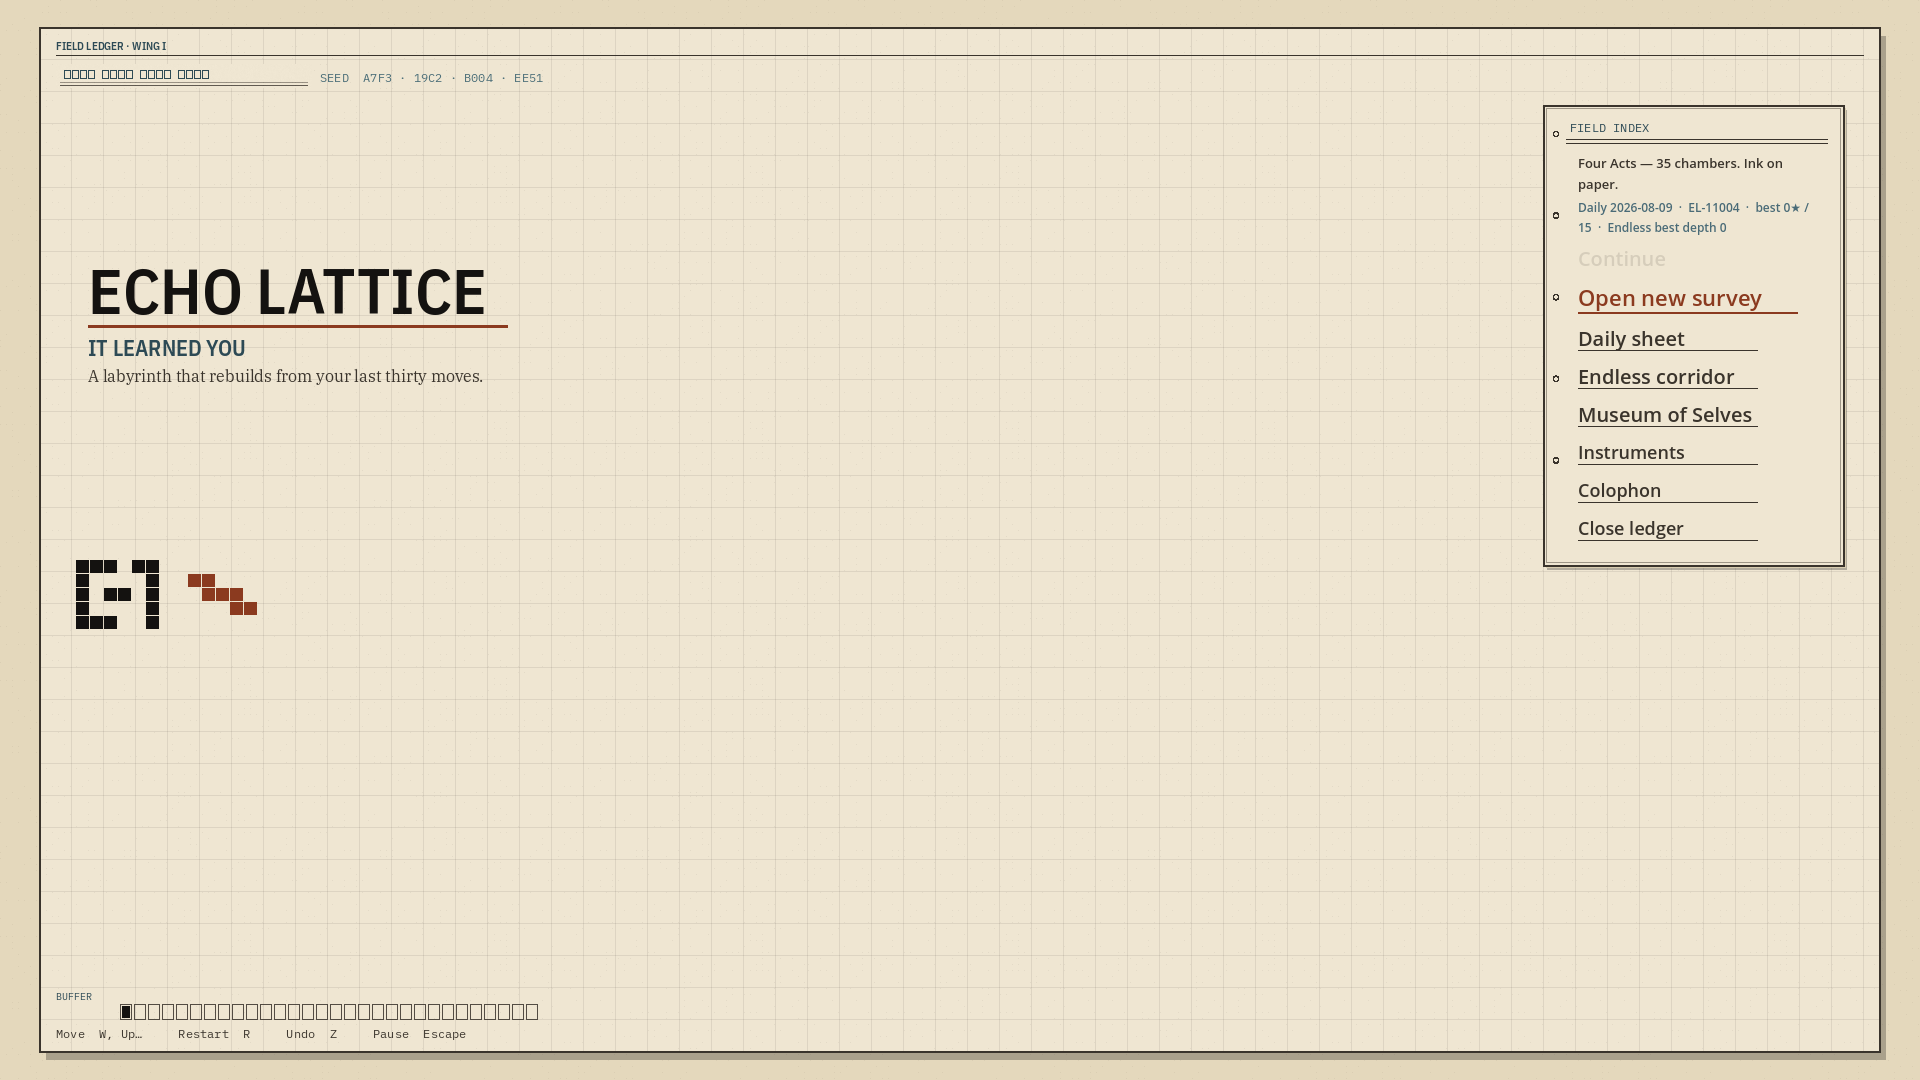
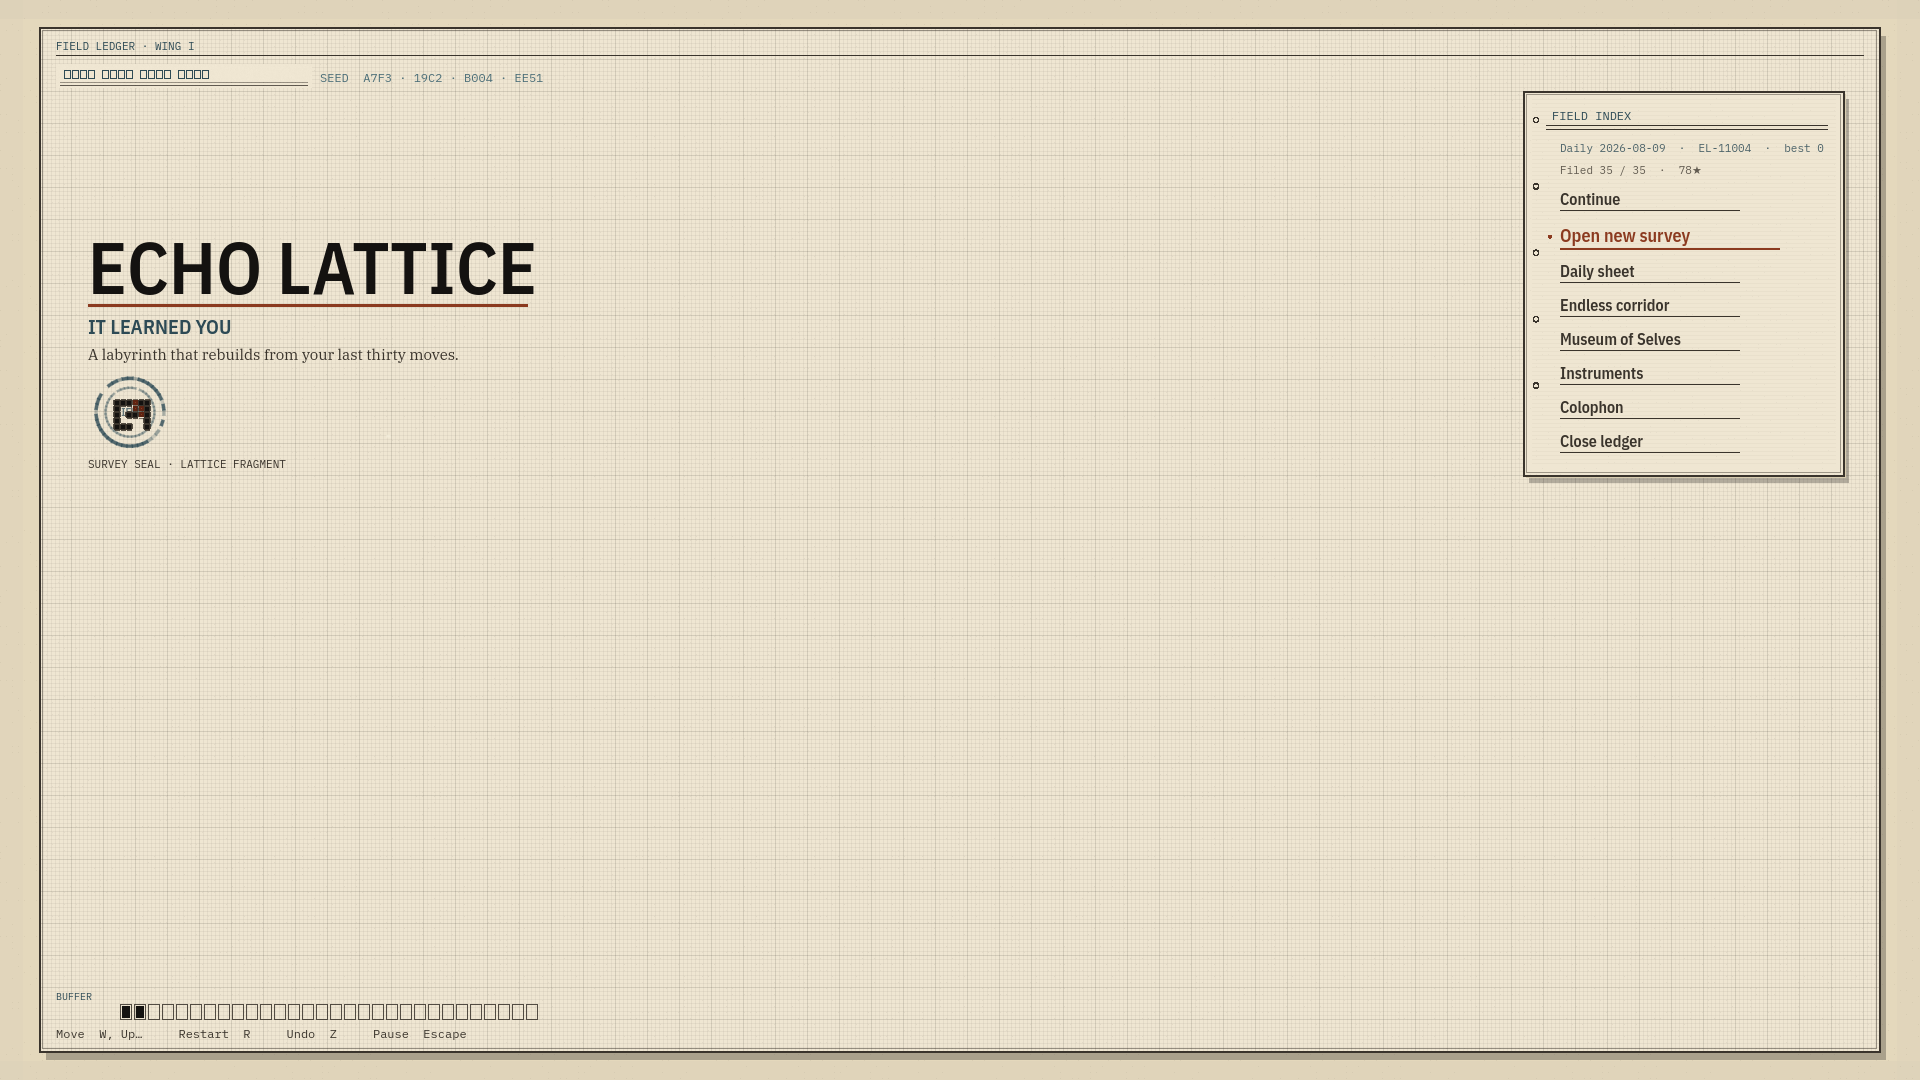
fix(menu): Deck-safe Field Index via font oversampling pin
LedgerType was loading Plex faces with oversampling=0, which made
get_height ~3× font_size and pushed Colophon/Quit outside the plate
at 960×560. Pin oversampling to 1.0, tighten compact type/scale, quiet
meta copy, and recapture the brand menu slate.

diff --git a/game/echo_lattice/tests/test_field_ledger_juice.py b/game/echo_lattice/tests/test_field_ledger_juice.py
@@ -367,23 +367,40 @@ class TestDiegeticShellMvp(unittest.TestCase):
                 left = x
                 break
         self.assertIsNotNone(left)
-        ys = [
+        # Ink hairline on the plate — strict threshold so ledger fiber/grid
+        # (lum ~190–210) does not inflate the card height.
+        edge = [
             y
-            for y in range(80, 900)
-            if any(lum(left + dx, y) < 200 for dx in range(0, 3))
+            for y in range(80, 1000)
+            if any(lum(left + dx, y) < 130 for dx in range(0, 3))
         ]
-        self.assertGreater(ys[-1] - ys[0], 350)
+        self.assertGreater(len(edge), 200, msg="Field Index left rule missing")
+        # Longest contiguous ink run = physical card edge.
+        runs: list[tuple[int, int]] = []
+        run_a: int | None = None
+        for y in range(80, 1000):
+            dark = any(lum(left + dx, y) < 130 for dx in range(0, 3))
+            if dark and run_a is None:
+                run_a = y
+            elif not dark and run_a is not None:
+                runs.append((run_a, y - 1))
+                run_a = None
+        if run_a is not None:
+            runs.append((run_a, 999))
+        self.assertTrue(runs, msg="Field Index card edge run missing")
+        top, bottom = max(runs, key=lambda r: r[1] - r[0])
+        self.assertGreater(bottom - top, 300, msg="Field Index plate too short")
         text_bottom = max(
             y
-            for y in range(ys[0], ys[-1] + 40, 2)
-            if sum(1 for x in range(left + 40, left + 240, 2) if lum(x, y) < 200) > 10
+            for y in range(top, bottom + 20, 2)
+            if sum(1 for x in range(left + 40, left + 240, 2) if lum(x, y) < 150) > 10
         )
-        self.assertLessEqual(text_bottom, ys[-1] + 8)
+        self.assertLessEqual(text_bottom, bottom + 8)
         orphan = sum(
             1
-            for y in range(ys[-1] + 40, 1000, 2)
+            for y in range(bottom + 24, 1000, 2)
             for x in range(left + 40, left + 240, 2)
-            if lum(x, y) < 180
+            if lum(x, y) < 140
         )
         self.assertLess(orphan, 40, msg="menu rows orphaned below Field Index card")
 

diff --git a/game/echo_lattice/tests/test_fonts_materials.py b/game/echo_lattice/tests/test_fonts_materials.py
@@ -43,6 +43,15 @@ class TestFontsMaterials(unittest.TestCase):
         locale_i = proj.index("LocaleManager=")
         self.assertLess(type_i, locale_i, "LedgerType must boot before LocaleManager")
 
+    def test_ledgertype_pins_font_oversampling(self) -> None:
+        """oversampling=0 (import default) can yield ~3× get_height and break Deck Field Index."""
+        src = (ROOT / "scripts" / "ledger_type.gd").read_text(encoding="utf-8")
+        self.assertIn("oversampling = 1.0", src)
+        self.assertIn('ResourceLoader.load(path, "FontFile")', src)
+        menu = (ROOT / "scripts" / "menu.gd").read_text(encoding="utf-8")
+        self.assertIn("title_type_scale(560.0 if compact else 1080.0)", menu)
+        self.assertNotIn("load_dynamic_font", menu)
+
     def test_menu_brand_uses_ledgertype_not_bare_themedb(self) -> None:
         menu = (ROOT / "scripts" / "menu.gd").read_text(encoding="utf-8")
         self.assertIn("LedgerType", menu)
